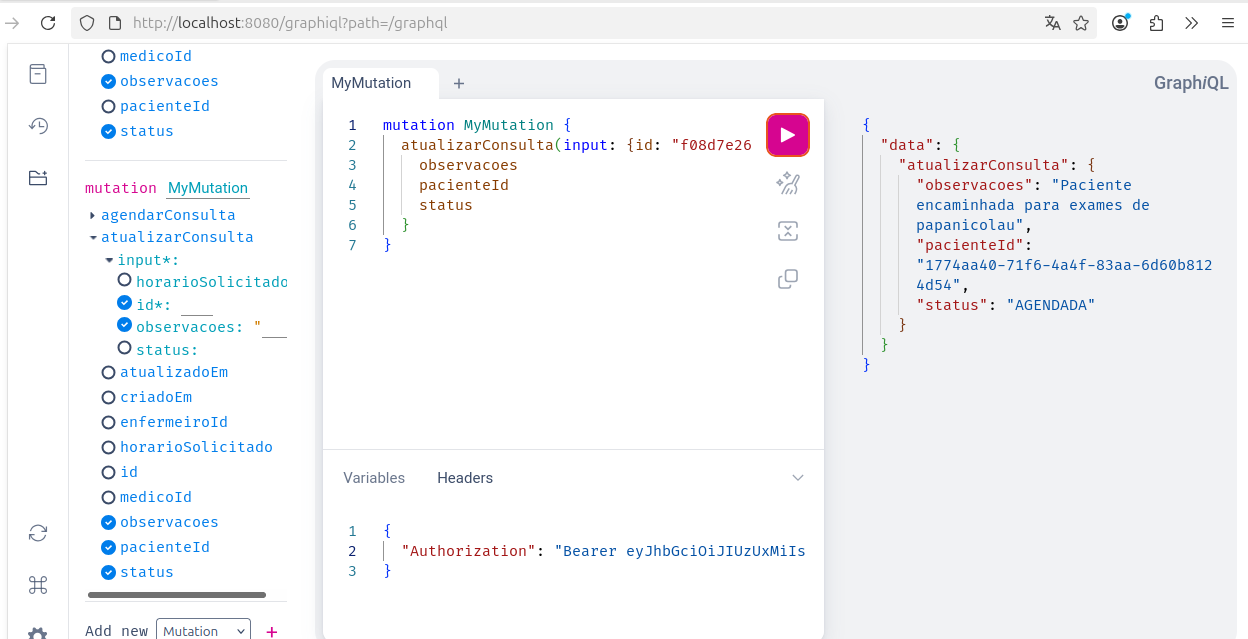
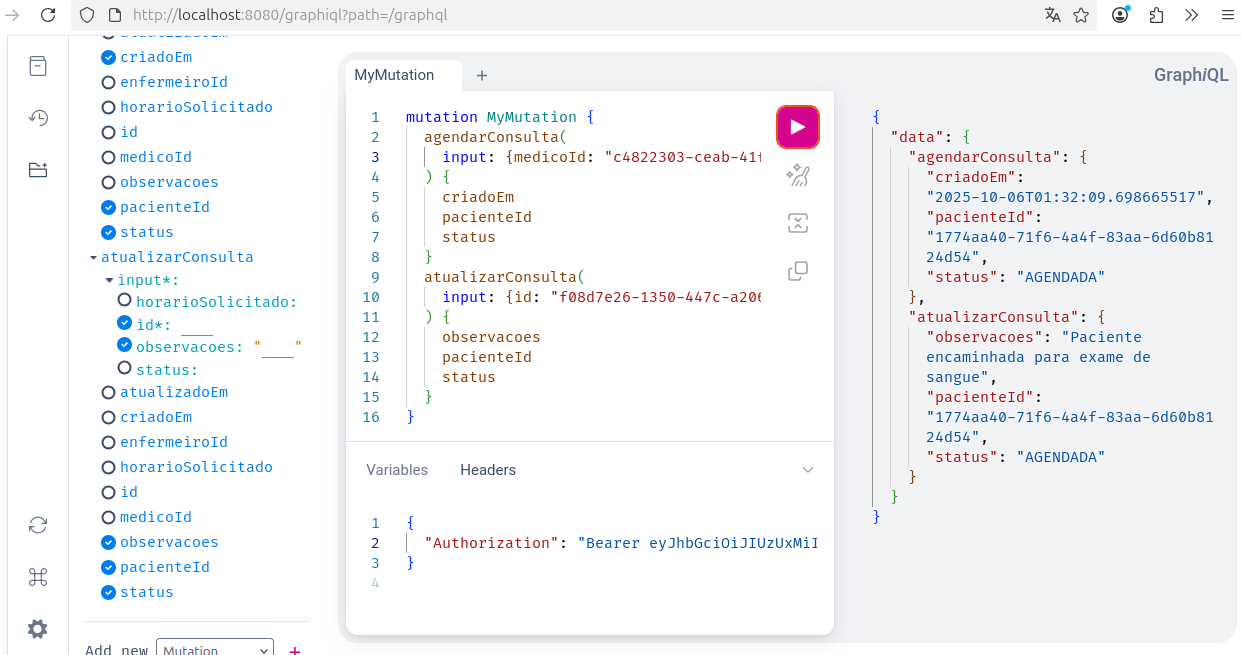
criacao consulta ajuste parse localdatetime

diff --git a/agendamento/src/main/java/com/agendio_api/agendamento/application/controller/ConsultaControllerInputPortImpl.java b/agendamento/src/main/java/com/agendio_api/agendamento/application/controller/ConsultaControllerInputPortImpl.java
@@ -4,6 +4,7 @@ import com.agendio_api.agendamento.application.port.dto.consulta.AgendaConsultaD
 import com.agendio_api.agendamento.application.port.dto.consulta.AtualizaConsultaDTO;
 import com.agendio_api.agendamento.application.port.dto.consulta.ConsultaFiltroRequestDTO;
 import com.agendio_api.agendamento.application.port.dto.consulta.ConsultaResponseDTO;
+import com.agendio_api.agendamento.application.port.dto.consulta.graphql.AgendarConsultaGraphqlDTO;
 import com.agendio_api.agendamento.application.port.dto.consulta.graphql.AtualizarConsultaGraphqlDTO;
 import com.agendio_api.agendamento.application.port.dto.consulta.graphql.ConsultaResponseGraphqlDTO;
 import com.agendio_api.agendamento.application.port.dto.consulta.graphql.ListarConsultaGraphqlDTO;
@@ -12,6 +13,7 @@ import com.agendio_api.agendamento.application.port.dto.paginated.PaginatedRespo
 import com.agendio_api.agendamento.application.port.dto.usuario.UsuarioIdFiltroPaginadoRequestDTO;
 import com.agendio_api.agendamento.application.port.input.consulta.controller.ConsultaControllerInputPort;
 import com.agendio_api.agendamento.application.port.input.consulta.usecase.*;
+import com.agendio_api.agendamento.application.port.input.consulta.usecase.graphql.AgendarConsultaGraphqlUseCase;
 import com.agendio_api.agendamento.application.port.input.consulta.usecase.graphql.AtualizarConsultaGraphqlUseCase;
 import com.agendio_api.agendamento.application.port.input.consulta.usecase.graphql.ListarConsultasGraphqlUseCase;
 import com.agendio_api.agendamento.domain.model.usuario.Usuario;
@@ -37,9 +39,10 @@ public class ConsultaControllerInputPortImpl implements ConsultaControllerInputP
     private final EncontrarTodasConsultasUseCase encontrarTodasConsultasUseCase;
     private final ListarConsultasGraphqlUseCase listarConsultasGraphqlUseCase;
     private final AtualizarConsultaGraphqlUseCase atualizarConsultaGraphqlUseCase;
+    private final AgendarConsultaGraphqlUseCase agendarConsultaGraphqlUseCase;
     private final AuthenticatedUserService authenticatedUserService;
 
-    public ConsultaControllerInputPortImpl(AgendarConsultaUseCase agendarConsultaUseCase, AtualizarConsultaUseCase atualizarConsultaUseCase, CancelarConsultaUseCase cancelarConsultaUseCase, EncontrarConsultaPorIdUseCase encontrarConsultaUseCase, EncontrarConsultasPorEnfermeiroUseCase encontrarConsultasPorEnfermeiroUseCase, EncontrarConsultasPorMedicoUseCase encontrarConsultasPorMedicoUseCase, EncontrarConsultasPorMedicoEPeriodoUseCase encontrarConsultasPorMedicoEPeriodoUseCase, EncontrarConsultasPorPacienteUseCase encontrarConsultasPorPacienteUseCase, EncontrarTodasConsultasUseCase encontrarTodasConsultasUseCase, ListarConsultasGraphqlUseCase listarConsultasGraphqlUseCase, AtualizarConsultaGraphqlUseCase atualizarConsultaGraphqlUseCase, AuthenticatedUserService authenticatedUserService) {
+    public ConsultaControllerInputPortImpl(AgendarConsultaUseCase agendarConsultaUseCase, AtualizarConsultaUseCase atualizarConsultaUseCase, CancelarConsultaUseCase cancelarConsultaUseCase, EncontrarConsultaPorIdUseCase encontrarConsultaUseCase, EncontrarConsultasPorEnfermeiroUseCase encontrarConsultasPorEnfermeiroUseCase, EncontrarConsultasPorMedicoUseCase encontrarConsultasPorMedicoUseCase, EncontrarConsultasPorMedicoEPeriodoUseCase encontrarConsultasPorMedicoEPeriodoUseCase, EncontrarConsultasPorPacienteUseCase encontrarConsultasPorPacienteUseCase, EncontrarTodasConsultasUseCase encontrarTodasConsultasUseCase, ListarConsultasGraphqlUseCase listarConsultasGraphqlUseCase, AtualizarConsultaGraphqlUseCase atualizarConsultaGraphqlUseCase, AgendarConsultaGraphqlUseCase agendarConsultaGraphqlUseCase, AuthenticatedUserService authenticatedUserService) {
         this.agendarConsultaUseCase = agendarConsultaUseCase;
         this.atualizarConsultaUseCase = atualizarConsultaUseCase;
         this.cancelarConsultaUseCase = cancelarConsultaUseCase;
@@ -51,6 +54,7 @@ public class ConsultaControllerInputPortImpl implements ConsultaControllerInputP
         this.encontrarTodasConsultasUseCase = encontrarTodasConsultasUseCase;
         this.listarConsultasGraphqlUseCase = listarConsultasGraphqlUseCase;
         this.atualizarConsultaGraphqlUseCase = atualizarConsultaGraphqlUseCase;
+        this.agendarConsultaGraphqlUseCase = agendarConsultaGraphqlUseCase;
         this.authenticatedUserService = authenticatedUserService;
     }
 
@@ -120,5 +124,12 @@ public class ConsultaControllerInputPortImpl implements ConsultaControllerInputP
         logger.info("Atualizando consulta id: {}", request.id());
         UserPrincipal usuarioLogado = authenticatedUserService.getCurrentUserPrincipal();
         return atualizarConsultaGraphqlUseCase.executar(request, usuarioLogado);
+    }
+
+    @Override
+    public ConsultaResponseGraphqlDTO agendarGraphql(AgendarConsultaGraphqlDTO request) {
+        logger.info("Criando consulta para o paciente: {}", request.pacienteId());
+        UserPrincipal usuarioLogado = authenticatedUserService.getCurrentUserPrincipal();
+        return agendarConsultaGraphqlUseCase.executar(request, usuarioLogado);
     }
 }

diff --git a/agendamento/src/main/java/com/agendio_api/agendamento/infrastructure/bean/config/consulta/ConsultaBeanConfig.java b/agendamento/src/main/java/com/agendio_api/agendamento/infrastructure/bean/config/consulta/ConsultaBeanConfig.java
@@ -3,12 +3,14 @@ package com.agendio_api.agendamento.infrastructure.bean.config.consulta;
 import com.agendio_api.agendamento.application.controller.ConsultaControllerInputPortImpl;
 import com.agendio_api.agendamento.application.port.input.consulta.controller.ConsultaControllerInputPort;
 import com.agendio_api.agendamento.application.port.input.consulta.usecase.*;
+import com.agendio_api.agendamento.application.port.input.consulta.usecase.graphql.AgendarConsultaGraphqlUseCase;
 import com.agendio_api.agendamento.application.port.input.consulta.usecase.graphql.AtualizarConsultaGraphqlUseCase;
 import com.agendio_api.agendamento.application.port.input.consulta.usecase.graphql.ListarConsultasGraphqlUseCase;
 import com.agendio_api.agendamento.application.port.mapper.consulta.IConsultaMapper;
 import com.agendio_api.agendamento.application.port.output.consulta.ConsultaDataSource;
 import com.agendio_api.agendamento.application.port.output.consulta.ConsultaGateway;
 import com.agendio_api.agendamento.application.usecase.consulta.*;
+import com.agendio_api.agendamento.application.usecase.consulta.graphql.AgendarConsultaGraphqlUseCaseImpl;
 import com.agendio_api.agendamento.application.usecase.consulta.graphql.AtualizarConsultaGraphqlUseCaseImpl;
 import com.agendio_api.agendamento.application.usecase.consulta.graphql.ListarConsultasGraphqlUseCaseImpl;
 import com.agendio_api.agendamento.domain.validator.ConsultaValidator;
@@ -91,6 +93,11 @@ public class ConsultaBeanConfig {
     }
 
     @Bean
+    AgendarConsultaGraphqlUseCase agendarConsultaGraphqlUseCase(ConsultaGateway consultaGateway, IConsultaMapper consultaMapper) {
+        return new AgendarConsultaGraphqlUseCaseImpl(consultaGateway, consultaMapper);
+    }
+
+    @Bean
     ConsultaControllerInputPort registerConsultaControllerInputPort(AtualizarConsultaUseCase atualizarConsultaUseCase,
                                                                     CancelarConsultaUseCase cancelarConsultaUseCase,
                                                                     EncontrarConsultaPorIdUseCase encontrarConsultaPorIdUseCase,
@@ -102,6 +109,7 @@ public class ConsultaBeanConfig {
                                                                     AgendarConsultaUseCase agendarConsultaUseCase,
                                                                     ListarConsultasGraphqlUseCase listarConsultasGraphqlUseCase,
                                                                     AtualizarConsultaGraphqlUseCase atualizarConsultaGraphqlUseCase,
+                                                                    AgendarConsultaGraphqlUseCase agendarConsultaGraphqlUseCase,
                                                                     AuthenticatedUserService authenticatedUserService) {
         return new ConsultaControllerInputPortImpl(agendarConsultaUseCase,
                 atualizarConsultaUseCase,
@@ -114,6 +122,7 @@ public class ConsultaBeanConfig {
                 encontrarTodasConsultasUseCase,
                 listarConsultasGraphqlUseCase,
                 atualizarConsultaGraphqlUseCase,
+                agendarConsultaGraphqlUseCase,
                 authenticatedUserService);
     }
 }

diff --git a/agendamento/src/main/java/com/agendio_api/agendamento/infrastructure/bean/config/graphql/LocalDateTimeScalar.java b/agendamento/src/main/java/com/agendio_api/agendamento/infrastructure/bean/config/graphql/LocalDateTimeScalar.java
@@ -1,6 +1,8 @@
 package com.agendio_api.agendamento.infrastructure.bean.config.graphql;
 
+import graphql.language.StringValue;
 import graphql.schema.Coercing;
+import graphql.schema.CoercingParseLiteralException;
 import graphql.schema.GraphQLScalarType;
 
 import java.time.LocalDateTime;
@@ -14,15 +16,17 @@ public class LocalDateTimeScalar {
     private static final Coercing<LocalDateTime, String> COERCING = new Coercing<LocalDateTime, String>() {
 
         @Override
-        public String serialize(Object dataFetcherResult) throws IllegalArgumentException {
+        public String serialize(Object dataFetcherResult) {
             if (dataFetcherResult instanceof LocalDateTime) {
                 return FORMATTER.format((LocalDateTime) dataFetcherResult);
             }
-            throw new IllegalArgumentException("Expected object of type LocalDateTime but was " + dataFetcherResult.getClass().getName());
+            throw new IllegalArgumentException(
+                    "Expected a LocalDateTime object but was " + dataFetcherResult.getClass().getName()
+            );
         }
 
         @Override
-        public LocalDateTime parseValue(Object input) throws IllegalArgumentException {
+        public LocalDateTime parseValue(Object input) {
             if (input instanceof String) {
                 try {
                     return LocalDateTime.parse((String) input, FORMATTER);
@@ -30,12 +34,23 @@ public class LocalDateTimeScalar {
                     throw new IllegalArgumentException("Invalid LocalDateTime string: " + input, e);
                 }
             }
-            throw new IllegalArgumentException("Expected input of type String but was " + input.getClass().getName());
+            throw new IllegalArgumentException(
+                    "Expected a String for LocalDateTime but was " + input.getClass().getName()
+            );
         }
 
         @Override
-        public LocalDateTime parseLiteral(Object input) throws IllegalArgumentException {
-            return parseValue(input);
+        public LocalDateTime parseLiteral(Object input) {
+            if (input instanceof StringValue) {
+                try {
+                    return LocalDateTime.parse(((StringValue) input).getValue(), FORMATTER);
+                } catch (DateTimeParseException e) {
+                    throw new CoercingParseLiteralException("Invalid LocalDateTime literal: " + input, e);
+                }
+            }
+            throw new CoercingParseLiteralException(
+                    "Expected AST type 'StringValue' for LocalDateTime literal but was " + input.getClass().getName()
+            );
         }
     };
 

diff --git a/agendamento/src/main/java/com/agendio_api/agendamento/application/usecase/consulta/graphql/AgendarConsultaGraphqlUseCaseImpl.java b/agendamento/src/main/java/com/agendio_api/agendamento/application/usecase/consulta/graphql/AgendarConsultaGraphqlUseCaseImpl.java
@@ -1,0 +1,42 @@
+package com.agendio_api.agendamento.application.usecase.consulta.graphql;
+
+import com.agendio_api.agendamento.application.port.dto.consulta.graphql.AgendarConsultaGraphqlDTO;
+import com.agendio_api.agendamento.application.port.dto.consulta.graphql.AtualizarConsultaGraphqlDTO;
+import com.agendio_api.agendamento.application.port.dto.consulta.graphql.ConsultaResponseGraphqlDTO;
+import com.agendio_api.agendamento.application.port.input.consulta.usecase.graphql.AgendarConsultaGraphqlUseCase;
+import com.agendio_api.agendamento.application.port.input.consulta.usecase.graphql.AtualizarConsultaGraphqlUseCase;
+import com.agendio_api.agendamento.application.port.mapper.consulta.IConsultaMapper;
+import com.agendio_api.agendamento.application.port.output.consulta.ConsultaGateway;
+import com.agendio_api.agendamento.domain.exception.ConsultaNaoEncontradaException;
+import com.agendio_api.agendamento.domain.model.consulta.Consulta;
+import com.agendio_api.agendamento.infrastructure.exception.AccessDeniedException;
+import com.agendio_api.agendamento.infrastructure.security.UserPrincipal;
+import org.springframework.security.core.authority.SimpleGrantedAuthority;
+
+public class AgendarConsultaGraphqlUseCaseImpl implements AgendarConsultaGraphqlUseCase {
+
+    private final ConsultaGateway consultaGateway;
+    private final IConsultaMapper consultaMapper;
+
+    public AgendarConsultaGraphqlUseCaseImpl(ConsultaGateway consultaGateway, IConsultaMapper consultaMapper) {
+        this.consultaGateway = consultaGateway;
+        this.consultaMapper = consultaMapper;
+    }
+
+    @Override
+    public ConsultaResponseGraphqlDTO executar(AgendarConsultaGraphqlDTO request, UserPrincipal usuarioLogado) {
+
+        var roleMedico = new SimpleGrantedAuthority("ROLE_MEDICO");
+        var roleEnfermeiro = new SimpleGrantedAuthority("ROLE_ENFERMEIRO");
+        var authorities = usuarioLogado.getAuthorities();
+
+        if (!authorities.contains(roleMedico) && !authorities.contains(roleEnfermeiro)) {
+            throw new AccessDeniedException("Usuário não autorizado a agendar consultas");
+        }
+
+        Consulta consultaParaAgendar = consultaMapper.toDomain(request);
+        Consulta consultaParaSalvar = consultaGateway.agendar(consultaParaAgendar);
+        return consultaMapper.toConsultaGraphqlDTO(consultaParaSalvar);
+    }
+
+}

diff --git a/agendamento/src/main/java/com/agendio_api/agendamento/infrastructure/mapper/ConsultaMapper.java b/agendamento/src/main/java/com/agendio_api/agendamento/infrastructure/mapper/ConsultaMapper.java
@@ -4,6 +4,7 @@ import com.agendio_api.agendamento.application.port.dto.consulta.AgendaConsultaD
 import com.agendio_api.agendamento.application.port.dto.consulta.AtualizaConsultaDTO;
 import com.agendio_api.agendamento.application.port.dto.consulta.ConsultaFiltroRequestDTO;
 import com.agendio_api.agendamento.application.port.dto.consulta.ConsultaResponseDTO;
+import com.agendio_api.agendamento.application.port.dto.consulta.graphql.AgendarConsultaGraphqlDTO;
 import com.agendio_api.agendamento.application.port.dto.consulta.graphql.AtualizarConsultaGraphqlDTO;
 import com.agendio_api.agendamento.application.port.dto.consulta.graphql.ConsultaResponseGraphqlDTO;
 import com.agendio_api.agendamento.application.port.mapper.consulta.IConsultaMapper;
@@ -124,6 +125,17 @@ public final class ConsultaMapper implements IConsultaMapper {
 
         return consultaExistente;
     }
+
+    @Override
+    public Consulta toDomain(AgendarConsultaGraphqlDTO request) {
+        return Consulta.agendar(
+                request.medicoId(),
+                request.enfermeiroId(),
+                request.pacienteId(),
+                request.horarioSolicitado(),
+                request.observacoes());
+    }
+
     @Override
     public ConsultaResponseGraphqlDTO toConsultaGraphqlDTO(Consulta consulta) {
         if (consulta == null){

diff --git a/agendamento/src/main/java/com/agendio_api/agendamento/application/port/input/consulta/controller/ConsultaControllerInputPort.java b/agendamento/src/main/java/com/agendio_api/agendamento/application/port/input/consulta/controller/ConsultaControllerInputPort.java
@@ -4,6 +4,7 @@ import com.agendio_api.agendamento.application.port.dto.consulta.AgendaConsultaD
 import com.agendio_api.agendamento.application.port.dto.consulta.AtualizaConsultaDTO;
 import com.agendio_api.agendamento.application.port.dto.consulta.ConsultaFiltroRequestDTO;
 import com.agendio_api.agendamento.application.port.dto.consulta.ConsultaResponseDTO;
+import com.agendio_api.agendamento.application.port.dto.consulta.graphql.AgendarConsultaGraphqlDTO;
 import com.agendio_api.agendamento.application.port.dto.consulta.graphql.AtualizarConsultaGraphqlDTO;
 import com.agendio_api.agendamento.application.port.dto.consulta.graphql.ConsultaResponseGraphqlDTO;
 import com.agendio_api.agendamento.application.port.dto.consulta.graphql.ListarConsultaGraphqlDTO;
@@ -36,4 +37,6 @@ public interface ConsultaControllerInputPort {
     List<ConsultaResponseGraphqlDTO> listarPorFiltros(ListarConsultaGraphqlDTO filtro);
 
     ConsultaResponseGraphqlDTO atualizarGraphql(AtualizarConsultaGraphqlDTO input);
+
+    ConsultaResponseGraphqlDTO agendarGraphql(AgendarConsultaGraphqlDTO input);
 }

diff --git a/agendamento/src/main/java/com/agendio_api/agendamento/application/port/mapper/consulta/IConsultaMapper.java b/agendamento/src/main/java/com/agendio_api/agendamento/application/port/mapper/consulta/IConsultaMapper.java
@@ -4,6 +4,7 @@ import com.agendio_api.agendamento.application.port.dto.consulta.AgendaConsultaD
 import com.agendio_api.agendamento.application.port.dto.consulta.AtualizaConsultaDTO;
 import com.agendio_api.agendamento.application.port.dto.consulta.ConsultaFiltroRequestDTO;
 import com.agendio_api.agendamento.application.port.dto.consulta.ConsultaResponseDTO;
+import com.agendio_api.agendamento.application.port.dto.consulta.graphql.AgendarConsultaGraphqlDTO;
 import com.agendio_api.agendamento.application.port.dto.consulta.graphql.AtualizarConsultaGraphqlDTO;
 import com.agendio_api.agendamento.application.port.dto.consulta.graphql.ConsultaResponseGraphqlDTO;
 import com.agendio_api.agendamento.domain.model.consulta.Consulta;
@@ -26,6 +27,8 @@ public interface IConsultaMapper {
     Consulta toDomain(JpaConsultaEntity jpaEntity);
 
     Consulta toDomain(AtualizarConsultaGraphqlDTO dto, Consulta consultaExistente);
+
+    Consulta toDomain(AgendarConsultaGraphqlDTO request);
 
     FiltroBuscaConsulta toFiltroConsulta(ConsultaFiltroRequestDTO dto);
 

diff --git a/agendamento/src/main/java/com/agendio_api/agendamento/infrastructure/adapter/controller/graphql/ConsultaGraphQLController.java b/agendamento/src/main/java/com/agendio_api/agendamento/infrastructure/adapter/controller/graphql/ConsultaGraphQLController.java
@@ -1,5 +1,6 @@
 package com.agendio_api.agendamento.infrastructure.adapter.controller.graphql;
 
+import com.agendio_api.agendamento.application.port.dto.consulta.graphql.AgendarConsultaGraphqlDTO;
 import com.agendio_api.agendamento.application.port.dto.consulta.graphql.AtualizarConsultaGraphqlDTO;
 import com.agendio_api.agendamento.application.port.dto.consulta.graphql.ConsultaResponseGraphqlDTO;
 import com.agendio_api.agendamento.application.port.dto.consulta.graphql.ListarConsultaGraphqlDTO;
@@ -29,5 +30,11 @@ public class ConsultaGraphQLController {
     public ConsultaResponseGraphqlDTO atualizarConsulta(@Argument("input") AtualizarConsultaGraphqlDTO input) {
         input.validar();
         return consultaControllerInputPort.atualizarGraphql(input);
+    }
+
+    @MutationMapping
+    public ConsultaResponseGraphqlDTO agendarConsulta(@Argument("input") AgendarConsultaGraphqlDTO input) {
+        input.validar();
+        return consultaControllerInputPort.agendarGraphql(input);
     }
 }

diff --git a/agendamento/src/main/java/com/agendio_api/agendamento/application/port/dto/consulta/graphql/AgendarConsultaGraphqlDTO.java b/agendamento/src/main/java/com/agendio_api/agendamento/application/port/dto/consulta/graphql/AgendarConsultaGraphqlDTO.java
@@ -12,5 +12,27 @@ public record AgendarConsultaGraphqlDTO(
         UUID enfermeiroId,
         LocalDateTime horarioSolicitado,
         String observacoes
-) {
+){
+    public void validar() {
+        if (medicoId == null) {
+            throw new IllegalArgumentException("O ID do médico é obrigatório");
+        }
+
+        if (pacienteId == null) {
+            throw new IllegalArgumentException("O ID do paciente é obrigatório");
+        }
+
+        if (enfermeiroId == null) {
+            throw new IllegalArgumentException("O ID do enfermeiro é obrigatório");
+        }
+
+        if (horarioSolicitado != null && horarioSolicitado.isBefore(LocalDateTime.now())) {
+            throw new IllegalArgumentException("A data da consulta deve ser futura");
+        }
+
+        if (observacoes != null && observacoes.length() > 500) {
+            throw new IllegalArgumentException("As observações não podem ultrapassar 500 caracteres");
+        }
+    }
 }
+

diff --git a/agendamento/src/main/java/com/agendio_api/agendamento/infrastructure/bean/config/graphql/GraphQLConfig.java b/agendamento/src/main/java/com/agendio_api/agendamento/infrastructure/bean/config/graphql/GraphQLConfig.java
@@ -1,5 +1,6 @@
 package com.agendio_api.agendamento.infrastructure.bean.config.graphql;
 
+import graphql.scalars.ExtendedScalars;
 import org.springframework.context.annotation.Bean;
 import org.springframework.context.annotation.Configuration;
 import org.springframework.graphql.execution.RuntimeWiringConfigurer;
@@ -9,6 +10,8 @@ public class GraphQLConfig {
 
     @Bean
     public RuntimeWiringConfigurer runtimeWiringConfigurer() {
-        return builder -> builder.scalar(LocalDateTimeScalar.get());
+        return builder -> builder
+                .scalar(LocalDateTimeScalar.get())
+                .scalar(ExtendedScalars.UUID);
     }
 }

diff --git a/agendamento/src/main/java/com/agendio_api/agendamento/application/port/input/consulta/usecase/graphql/AgendarConsultaGraphqlUseCase.java b/agendamento/src/main/java/com/agendio_api/agendamento/application/port/input/consulta/usecase/graphql/AgendarConsultaGraphqlUseCase.java
@@ -1,0 +1,10 @@
+package com.agendio_api.agendamento.application.port.input.consulta.usecase.graphql;
+
+import com.agendio_api.agendamento.application.port.dto.consulta.graphql.AgendarConsultaGraphqlDTO;
+import com.agendio_api.agendamento.application.port.dto.consulta.graphql.AtualizarConsultaGraphqlDTO;
+import com.agendio_api.agendamento.application.port.dto.consulta.graphql.ConsultaResponseGraphqlDTO;
+import com.agendio_api.agendamento.infrastructure.security.UserPrincipal;
+
+public interface AgendarConsultaGraphqlUseCase {
+    ConsultaResponseGraphqlDTO executar(AgendarConsultaGraphqlDTO request, UserPrincipal usuarioLogado);
+}
